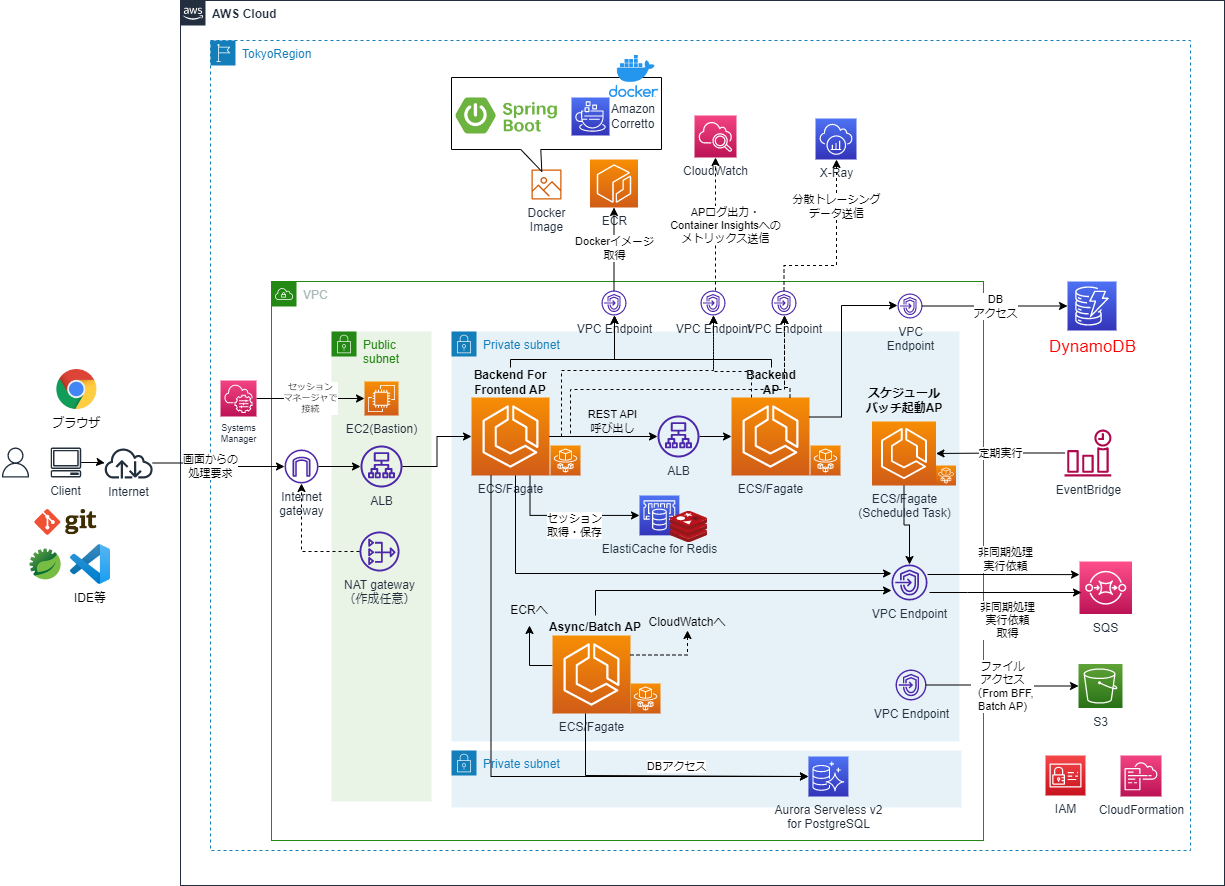
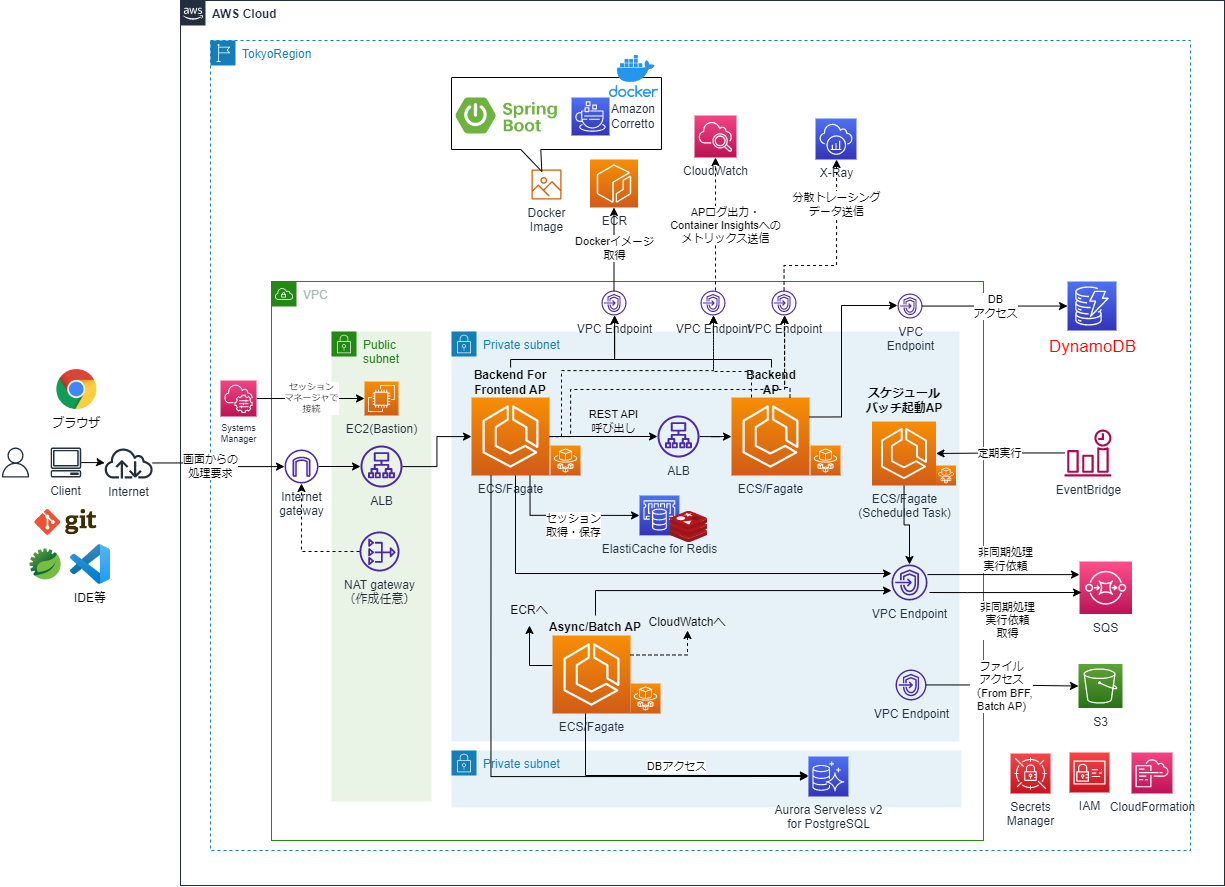
SecretsManager対応

diff --git a/README.md b/README.md
@@ -173,7 +173,7 @@ docker tag public.ecr.aws/aws-observability/aws-otel-collector %AWS_ACCOUNT_ID%.
 docker push %AWS_ACCOUNT_ID%.dkr.ecr.%AWS_REGION%.amazonaws.com/aws-otel-collector:latest
 ```
 
-## 6. （FireLens利用時のみ）Fluent BitのDockerイメージプッシュ
+### 6. （FireLens利用時のみ）Fluent BitのDockerイメージプッシュ
 * firelensフォルダにある「extra-for-backend.conf」、「extra-for-backend.conf」の設定ファイル中の「bucket」をログ出力用のS3バケット名に変える。
 * ログ転送にFireLensを利用する場合、サイドカーコンテナで使用するFluent BitのDockerイメージをビルドし、ECRにイメージをプッシュする。
 * 以下、コマンドを実行
@@ -241,7 +241,7 @@ aws cloudformation validate-template --template-body file://cfn-ecache-redis.yam
 aws cloudformation create-stack --stack-name ECS-ECACHE-Stack --template-body file://cfn-ecache-redis.yaml
 ```
 ## RDB環境構築
-### 1. Aurora Serverless v2 for PostgreSQLのクラスタ作成
+### 1. Aurora Serverless v2 for PostgreSQLのクラスタおよびSecrets Managerの作成
 * 各サンプルAPではRDBでデータ管理するため、Aurora Serverless v2 for PostgreSQLを作成する。  
     * 作成にしばらく時間がかかる。
 ```sh
@@ -292,7 +292,7 @@ aws cloudformation create-stack --stack-name ECS-CLUSTER-Stack --template-body f
 * awslogsドライバのタスク定義を作成
 ```sh
 aws cloudformation validate-template --template-body file://cfn-ecs-task.yaml
-aws cloudformation create-stack --stack-name ECS-TASK-Stack --template-body file://cfn-ecs-task.yaml --parameters ParameterKey=DBUsername,ParameterValue=postgres ParameterKey=DBPassword,ParameterValue=password
+aws cloudformation create-stack --stack-name ECS-TASK-Stack --template-body file://cfn-ecs-task.yaml
 ```
 
 * AP内のデータ保存用のS3バケット名を変えるには、それぞれのcfnスタック作成時のコマンドでパラメータを指定する
@@ -302,7 +302,7 @@ aws cloudformation create-stack --stack-name ECS-TASK-Stack --template-body file
 * awsfirelensドライバのタスク定義を作成
 ```sh
 aws cloudformation validate-template --template-body file://cfn-ecs-task-firelens.yaml
-aws cloudformation create-stack --stack-name ECS-TASK-Stack --template-body file://cfn-ecs-task-firelens.yaml --parameters ParameterKey=DBUsername,ParameterValue=postgres ParameterKey=DBPassword,ParameterValue=password
+aws cloudformation create-stack --stack-name ECS-TASK-Stack --template-body file://cfn-ecs-task-firelens.yaml
 ```
 
 * AP内のデータ保存用のS3バケット名を変えるには、それぞれのcfnスタック作成時のコマンドでパラメータを指定する
